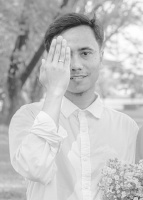
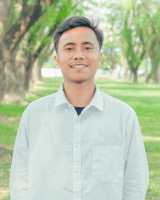
fix content, styling, animations, decorations

diff --git a/style.css b/style.css
@@ -649,6 +649,7 @@ header .row2 {
 /*========================== LOVE STORY ==========================*/
 
 #loveStory {
+  position: relative;
   display: flex;
   flex-direction: column;
   width: 100%;
@@ -1325,27 +1326,14 @@ header .row2 {
   }
 
   #comments #commentSection {
-    width: 100%;
-    max-height: 80vh;
     margin-bottom: 0;
-    background-color: white;
-    box-shadow: 0 0 40px 1px rgba(0, 0, 0, 0.1);
-  }
-
-  #comments #commentSection .filter-top {
-    background: linear-gradient(180deg, white 50%, rgba(255, 255, 255, 0) 100%);
-  }
-
-  #comments #commentSection .filter-bottom {
-    background: linear-gradient(180deg, rgba(255, 255, 255, 0) 50%, white 100%);
   }
 
   #comments #commentSection .comments-container {
     display: flex;
     flex-direction: column;
     flex-wrap: nowrap;
-    padding: 60px 0;
-    gap: 0;
+    padding: 60px 20px;
     justify-content: flex-start;
     align-items: center;
   }
@@ -1354,10 +1342,6 @@ header .row2 {
     width: 100%;
     min-width: 300px;
     height: fit-content;
-    padding: 20px;
     color: var(--clr5);
-    box-shadow: none;
-    border-radius: 0;
-    border-bottom: 1px solid rgba(47, 62, 70, 0.1);
   }
 }

diff --git a/index.html b/index.html
@@ -120,7 +120,7 @@
             <p class="address">Kaibon, Kec. Geger, Kab. Madiun, Jawa Tengah</p>
           </div>
           <div class="col1">
-            <img class="profile-pic" src="images/DSCF5396.jpg" alt="Danang" />
+            <img class="profile-pic" src="images/danang.jpg" alt="Danang" />
           </div>
         </div>
         <div class="col2">
@@ -130,7 +130,7 @@
         </div>
         <div class="col">
           <div class="col3">
-            <img class="profile-pic" src="images/DSCF5393.jpg" alt="Nurbaety" />
+            <img class="profile-pic" src="images/nunung.jpg" alt="Nurbaety" />
           </div>
           <div class="col3">
             <h1 class="name">Nurbaety</h1>
